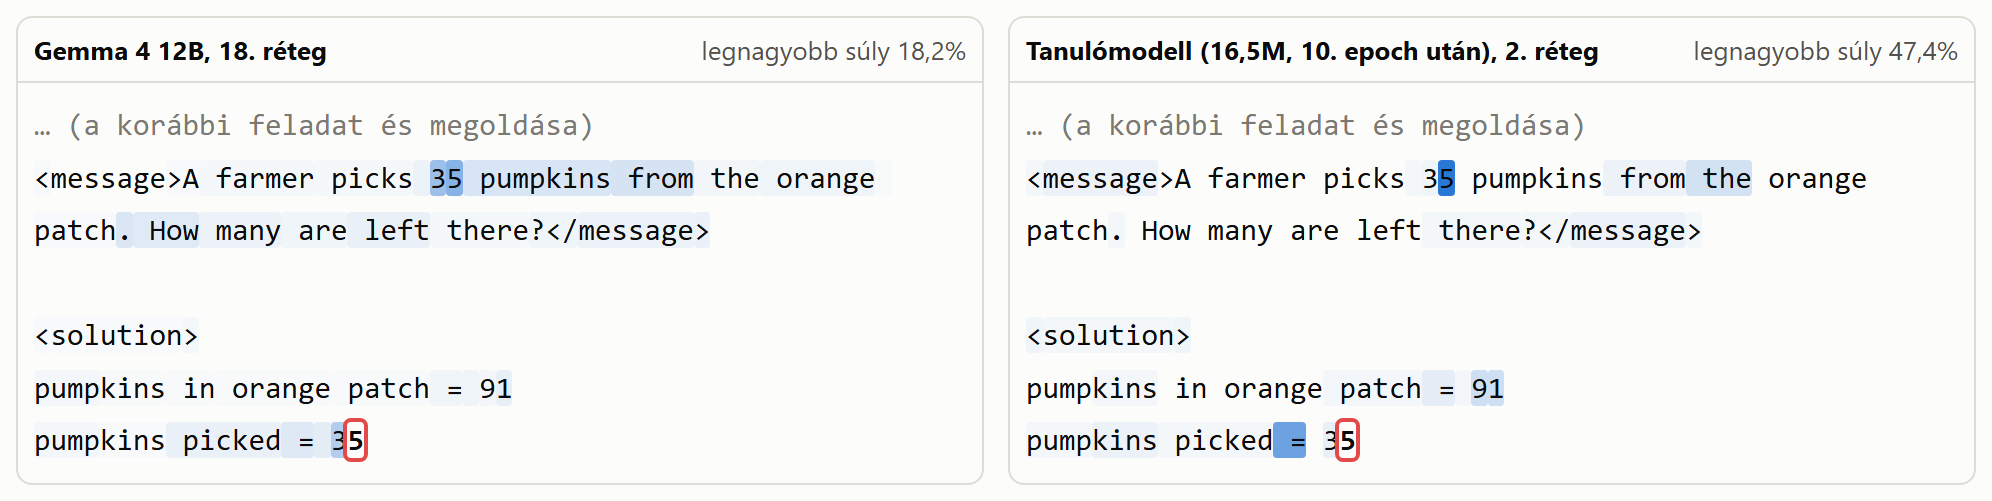
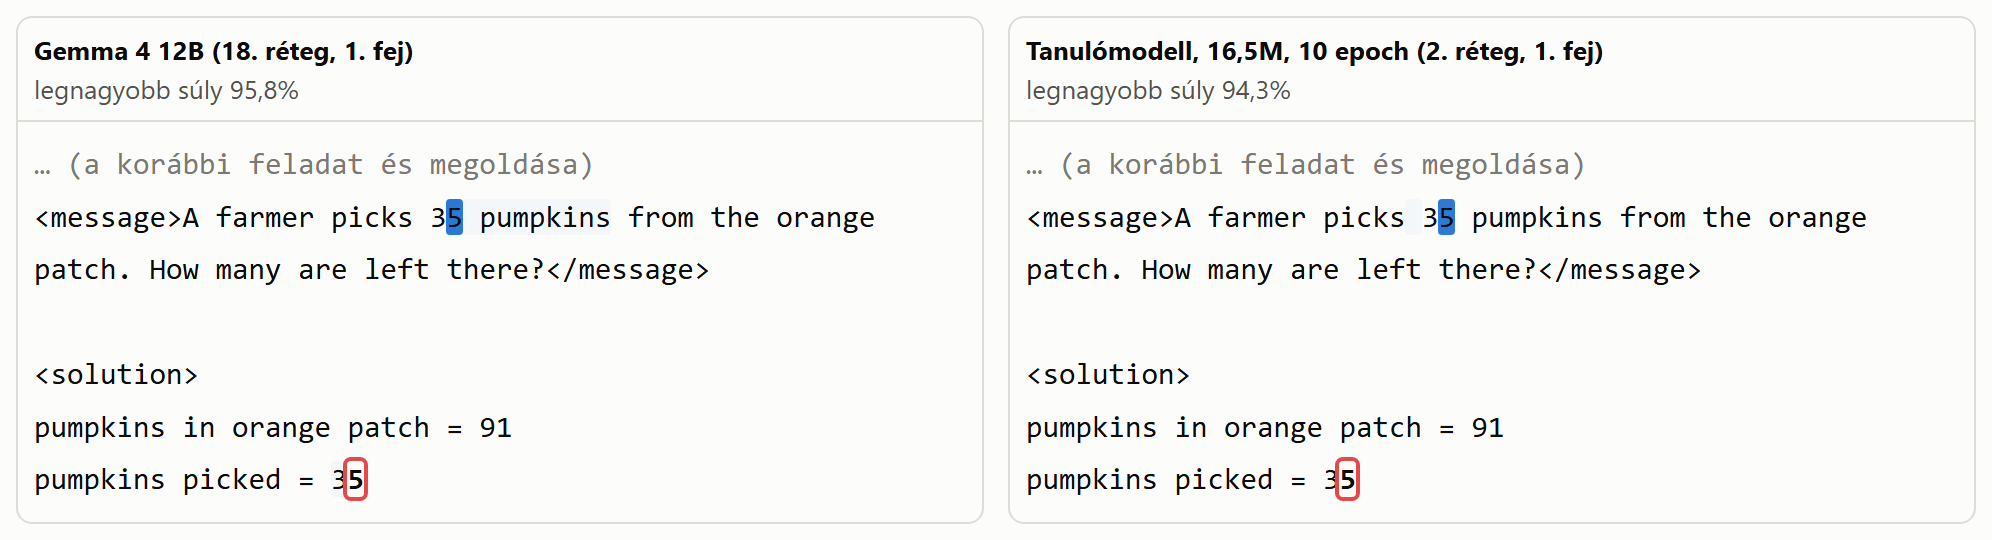
Figures 19a/19b: the snippets show each model's kereső head itself (its saved weights in the explorer page), the code student after pass 10 like figure 18a

diff --git a/thesis_work/grafikonok/plot_19_attention_snippets.py b/thesis_work/grafikonok/plot_19_attention_snippets.py
@@ -1,44 +1,58 @@
-"""Thesis figures (chapter 9, section 9.5): snippets of the attention study's explorer
+"""Thesis figures 9.7 and 9.9 (chapter 9, section 9.5): snippets of the attention study's explorer
 (runs/attention_study/attention_study.html, "Explorer: one reply, token by token"), Gemma next to a student, the text
-shaded by where each model looks while it writes one token of Gemma's test reply. The explorer shows a layer's
-mean over its heads; the layers are the ones holding the best heads of plot_18 (Gemma: 36 for code, 18 for math;
-the students: 2). One colour scale for both panels (the page's "one scale for all panels").
-Not the mean over every head: there Gemma's few lookup heads drown among its 768 (code: Gemma 3.0% vs the
-student 3.2% on the target lines, both an even spread), so the averaged view hides what the heads do.
+shaded by where each model's kereső figyelemfej looks while it writes one token of Gemma's test reply. The kereső
+head is the one of plot_18: the head that puts the largest share of its attention on what has to be looked up.
+The page itself stores only layer means, so the one head's weights are read from the saved attention rows (Gemma's
+measured in bf16 on the rented card, runs/attention_study/teacher.pt) and put into the page in the page's own format
+(per reply token: the weights over the groups scaled to their maximum, 0-255, plus that maximum), as a one-layer
+model. One colour scale for both panels (the page's "one scale for all panels").
 
-- 19a_code_attention_snippet.png: shop~v15#0 ("Which lines hold ...", Gemma's scope checkout.py 11-22), while writing
-  the first line number; Gemma 4 12B layer 36 vs code-kl-m (12.0M, KL, after pass 8: the student the page holds)
-  layer 2. The red bar marks the target lines. The box shows the lines around the target.
-- 19b_math_attention_snippet.png: the pumpkins record, while writing the "5" of "pumpkins picked = 35"; Gemma layer
-  18 vs math-kl-m-s1 (16.5M, KL, after pass 10) layer 2. The boxed token is the one being written; the conversation
-  is shown from the pupil's message on (the earlier task and solution are hidden).
+- 19a_code_attention_snippet.png: shop~v15#0 ("Which lines hold the code that places an order?", Gemma's scope
+  checkout.py 11-22), while writing the first line number. Gemma 4 12B layer 36 head 15 vs the 12.0M KL student after
+  pass 10 (code-agent-kl-m-s1; rows: agents/work/chapter9_synthesis_2026-11-06/code_attention_passes.py rows
+  code-kl-m-p10) layer 2 head 4. The red bar marks the target lines; the box shows the lines around them.
+- 19b_math_attention_snippet.png: the pumpkins record, while writing the "5" of "pumpkins picked = 35". Gemma layer 18
+  head 1 vs math-kl-m-s1 (16.5M, KL, after pass 10) layer 2 head 1. The boxed token is the one being written; the
+  conversation is shown from the pupil's message on (the earlier task and solution are hidden).
 Each panel title adds the measured value: code, the share on the target lines; math, the strongest weight.
 
-How: a copy of the page with a small script appended (picks the record, the two models, the layers and the token,
-hides the rest, swaps the English labels for Hungarian ones) goes next to the page (its explorer/ files load
+How: a copy of the page with a small script appended (puts in the heads, picks the record, the two models and the
+token, hides the rest, swaps the English labels for Hungarian ones) goes next to the page (its explorer/ files load
 relative to it), headless Chrome screenshots it, the copy is deleted and the PNG trimmed.
 Run: python thesis_work/grafikonok/plot_19_attention_snippets.py"""
+import base64
 import json
 import os
 import subprocess
+import sys
 import tempfile
 from pathlib import Path
 
+os.environ["CUDA_VISIBLE_DEVICES"] = ""
+ROOT = Path(r"D:\preference_destillation")
+sys.path.insert(0, str(ROOT / "experiments"))
+
+import torch
 from PIL import Image, ImageChops
 
-ROOT = Path(r"D:\preference_destillation")
+import attention_report as report
+
 PAGE = ROOT / "runs" / "attention_study" / "attention_study.html"
 OUTPUT_DIR = ROOT / "thesis_work" / "grafikonok"
 CHROME = r"C:\Program Files\Google\Chrome\Application\chrome.exe"
+CODE_STUDENT_ROWS = ROOT / "agents" / "work" / "chapter9_synthesis_2026-11-06" / "code_rows" / "code-kl-m-p10.pt"
 
+# model key on the page -> (where its rows come from, layer, head), 0-based; the kereső heads of plot_18
 SNAPSHOTS = [
     {"file": "19a_code_attention_snippet.png", "kind": "code", "listIndex": 16, "probeIndex": 82, "row": None,
-     "models": ["gemma", "code-kl-m"], "layers": {"gemma|code": 35, "code-kl-m|code": 1},
-     "titles": {"gemma": "Gemma 4 12B, 36. réteg", "code-kl-m": "Tanulómodell (12,0M, 8. epoch után), 2. réteg"},
+     "heads": {"gemma": ("gemma", 35, 14), "code-kl-m": (CODE_STUDENT_ROWS, 1, 3)},
+     "titles": {"gemma": "Gemma 4 12B (36. réteg, 15. fej)",
+                "code-kl-m": "Tanulómodell, 12,0M, 10 epoch (2. réteg, 4. fej)"},
      "font": 15, "width": 1000, "boxHeight": 330},
     {"file": "19b_math_attention_snippet.png", "kind": "math", "listIndex": 2, "probeIndex": 2, "row": 20,
-     "models": ["gemma", "math-kl-m-s1"], "layers": {"gemma|math": 17, "math-kl-m-s1|math": 1},
-     "titles": {"gemma": "Gemma 4 12B, 18. réteg", "math-kl-m-s1": "Tanulómodell (16,5M, 10. epoch után), 2. réteg"},
+     "heads": {"gemma": ("gemma", 17, 0), "math-kl-m-s1": ("math-kl-m-s1", 1, 0)},
+     "titles": {"gemma": "Gemma 4 12B (18. réteg, 1. fej)",
+                "math-kl-m-s1": "Tanulómodell, 16,5M, 10 epoch (2. réteg, 1. fej)"},
      "font": 15, "width": 1000, "boxHeight": None},
 ]
 
@@ -47,15 +61,28 @@ SNAPSHOT_SCRIPT = """
 (function () {
   const SNAP = __CONFIG__;
   document.documentElement.dataset.theme = "light";
-  DATA.model_sets[SNAP.kind]["Snippet"] = SNAP.models;
+  const models = Object.keys(SNAP.override);
+  DATA.model_sets[SNAP.kind]["Snippet"] = models;
   setChoice[SNAP.kind] = "Snippet";
-  Object.assign(layerChoice, SNAP.layers);
-  colsSelect.value = String(SNAP.models.length);
+  models.forEach(key => { layerChoice[`${key}|${SNAP.kind}`] = 0; });
+  colsSelect.value = String(models.length);
   fontSelect.value = String(SNAP.font);
   scaleSelect.value = "shared";
-  pickProbe(SNAP.listIndex);
+  // wait for the page's own first record, then load ours, put the one-head data in and show it
+  const start = setInterval(() => {
+    if (!current.data) return;
+    clearInterval(start);
+    const meta = DATA.explorer[SNAP.listIndex];
+    const script = document.createElement("script");
+    script.src = meta.file;
+    script.onload = () => {
+      Object.assign(window.EXPLORER[meta.index].models, SNAP.override);
+      pickProbe(SNAP.listIndex);
+    };
+    document.head.appendChild(script);
+  }, 50);
   const wait = setInterval(() => {
-    if (!current.data || current.data.index !== SNAP.probeIndex || current.panels.length !== SNAP.models.length) return;
+    if (!current.data || current.data.index !== SNAP.probeIndex || current.panels.length !== models.length) return;
     clearInterval(wait);
     if (SNAP.row !== null) setRow(SNAP.row);
     const panels = document.getElementById("ex-panels");
@@ -65,22 +92,22 @@ SNAPSHOT_SCRIPT = """
     document.body.appendChild(holder);
     holder.appendChild(panels);
     document.body.style.cssText = "margin:0;padding:0;background:var(--surface)";
-    panels.style.gridTemplateColumns = `repeat(${SNAP.models.length}, minmax(0, 1fr))`;
+    panels.style.gridTemplateColumns = `repeat(${models.length}, minmax(0, 1fr))`;
+    const percent = value => (value * 100).toFixed(1).replace(".", ",") + "%";
     for (const entry of current.panels) {
       const header = entry.note.parentElement.querySelector("header");
       header.innerHTML = "";
-      header.style.height = "auto";
+      header.style.cssText = "height:auto;white-space:normal;display:block";
       const title = document.createElement("b");
       title.textContent = SNAP.titles[entry.key];
       header.appendChild(title);
-      const percent = value => (value * 100).toFixed(1).replace(".", ",") + "%";
-      const measured = document.createElement("span");
-      measured.style.cssText = "margin-left:10px;font-weight:400;color:var(--text-2)";
+      const measured = document.createElement("div");
+      measured.style.cssText = "font-weight:400;color:var(--text-2)";
       if (SNAP.kind === "code") {
         const share = entry.cells.reduce((sum, cell, group) => sum + (current.data.regions[group] === "target lines" ? cell._weight : 0), 0);
         measured.textContent = `a keresett sorokon ${percent(share)}`;
       } else {
-        measured.textContent = `legnagyobb súly ${percent(entry.model.maxima[+entry.select.value][current.row])}`;
+        measured.textContent = `legnagyobb súly ${percent(entry.model.maxima[0][current.row])}`;
       }
       header.appendChild(measured);
       [entry.note, entry.top, entry.tail].forEach(node => { if (node) node.style.display = "none"; });
@@ -112,6 +139,15 @@ SNAPSHOT_SCRIPT = """
 """
 
 
+def one_head(rows_by_probe, probe_index: int, layer: int, head: int) -> dict:
+    """One head's weights for one record in the page's format: a model with a single "layer"."""
+    weights = report.view_of(rows_by_probe[probe_index])[0][layer, head]          # [reply tokens, groups]
+    maxima = weights.max(dim=1).values.clamp(min=1e-12)
+    scaled = (weights / maxima[:, None] * 255).round().to(torch.uint8)
+    return {"layers": 1, "data": base64.b64encode(scaled.numpy().tobytes()).decode("ascii"),
+            "maxima": [[round(float(value), 5) for value in maxima]], "outside": None}
+
+
 def trim(path: Path) -> None:
     image = Image.open(path).convert("RGB")
     background = Image.new("RGB", image.size, image.getpixel((2, 2)))
@@ -122,12 +158,25 @@ def trim(path: Path) -> None:
                     min(image.height, box[3] + margin))).save(path)
 
 
+loaded = {}
+
+
+def rows_of(source):
+    if source not in loaded:
+        loaded[source] = (torch.load(source, weights_only=False) if isinstance(source, Path)
+                          else report.load_rows(report.GEMMA if source == "gemma" else source))
+    return loaded[source]
+
+
 page = PAGE.read_text(encoding="utf-8")
 assert page.count("</body>") == 1, "the page's end tag moved"
 profile = tempfile.mkdtemp(prefix="chrome_snippet_")
 for snapshot in SNAPSHOTS:
+    config = {name: value for name, value in snapshot.items() if name != "heads"}
+    config["override"] = {key: one_head(rows_of(source), snapshot["probeIndex"], layer, head)
+                          for key, (source, layer, head) in snapshot["heads"].items()}
     copy = PAGE.parent / f"_snippet_{snapshot['kind']}.html"
-    copy.write_text(page.replace("</body>", SNAPSHOT_SCRIPT.replace("__CONFIG__", json.dumps(snapshot)) + "</body>"),
+    copy.write_text(page.replace("</body>", SNAPSHOT_SCRIPT.replace("__CONFIG__", json.dumps(config)) + "</body>"),
                     encoding="utf-8")
     output = OUTPUT_DIR / snapshot["file"]
     try:

diff --git a/thesis_work/grafikonok/GRAPH_INDEX.md b/thesis_work/grafikonok/GRAPH_INDEX.md
@@ -24,4 +24,4 @@ A script tobbnyire chart-only PNG-ket general. A 06a-c abrakban a modellmeret is
 20. `16_sentiment_size.png` - Thesis figure 9.3: sentiment students of 7 sizes (5.3M-129.2M) on ~490k training examples, field-level task accuracy over valid JSON replies, one seed each; `plot_16_sentiment_size.py`.
 21. `17_code_agent_overfit.png` - Thesis figure 9.5: coding agent student (12.0M, KL, one seed), CE loss per pass on its training data vs on the test projects (lowest at pass 2, then rising); `plot_17_code_agent_overfit.py`.
 22. `18a_code_attention.png`, `18b_math_attention.png` - Thesis figures 9.6 and 9.8: the best attention head's share on what has to be looked up (code: the target lines while writing a line number; math: the numbers while writing a number), untrained student vs trained student (code 12.0M KL pass 10; math 16.5M KL, mean of 3 seeds) vs Gemma 4 12B bf16; `plot_18_attention_lookup.py`.
-23. `19a_code_attention_snippet.png`, `19b_math_attention_snippet.png` - Thesis figures 9.7 and 9.9: snippets of the attention study explorer (runs/attention_study/attention_study.html), Gemma next to the student on one test reply, the text shaded by the mean of the layer holding each model's lookup head (code: Gemma layer 36 vs the 12.0M student after pass 8, layer 2, checkout.py 11-22; math: Gemma layer 18 vs the 16.5M KL s1 student, layer 2, writing the "5" of "35"); headless Chrome; `plot_19_attention_snippets.py`.
+23. `19a_code_attention_snippet.png`, `19b_math_attention_snippet.png` - Thesis figures 9.7 and 9.9: snippets of the attention study explorer (runs/attention_study/attention_study.html), Gemma next to the student on one test reply, the text shaded by each model's kereső head itself (its saved weights put into the page): code, Gemma layer 36 head 15 vs the 12.0M KL student after pass 10, layer 2 head 4, checkout.py 11-22; math, Gemma layer 18 head 1 vs the 16.5M KL s1 student, layer 2 head 1, writing the "5" of "35"; headless Chrome; `plot_19_attention_snippets.py`.
